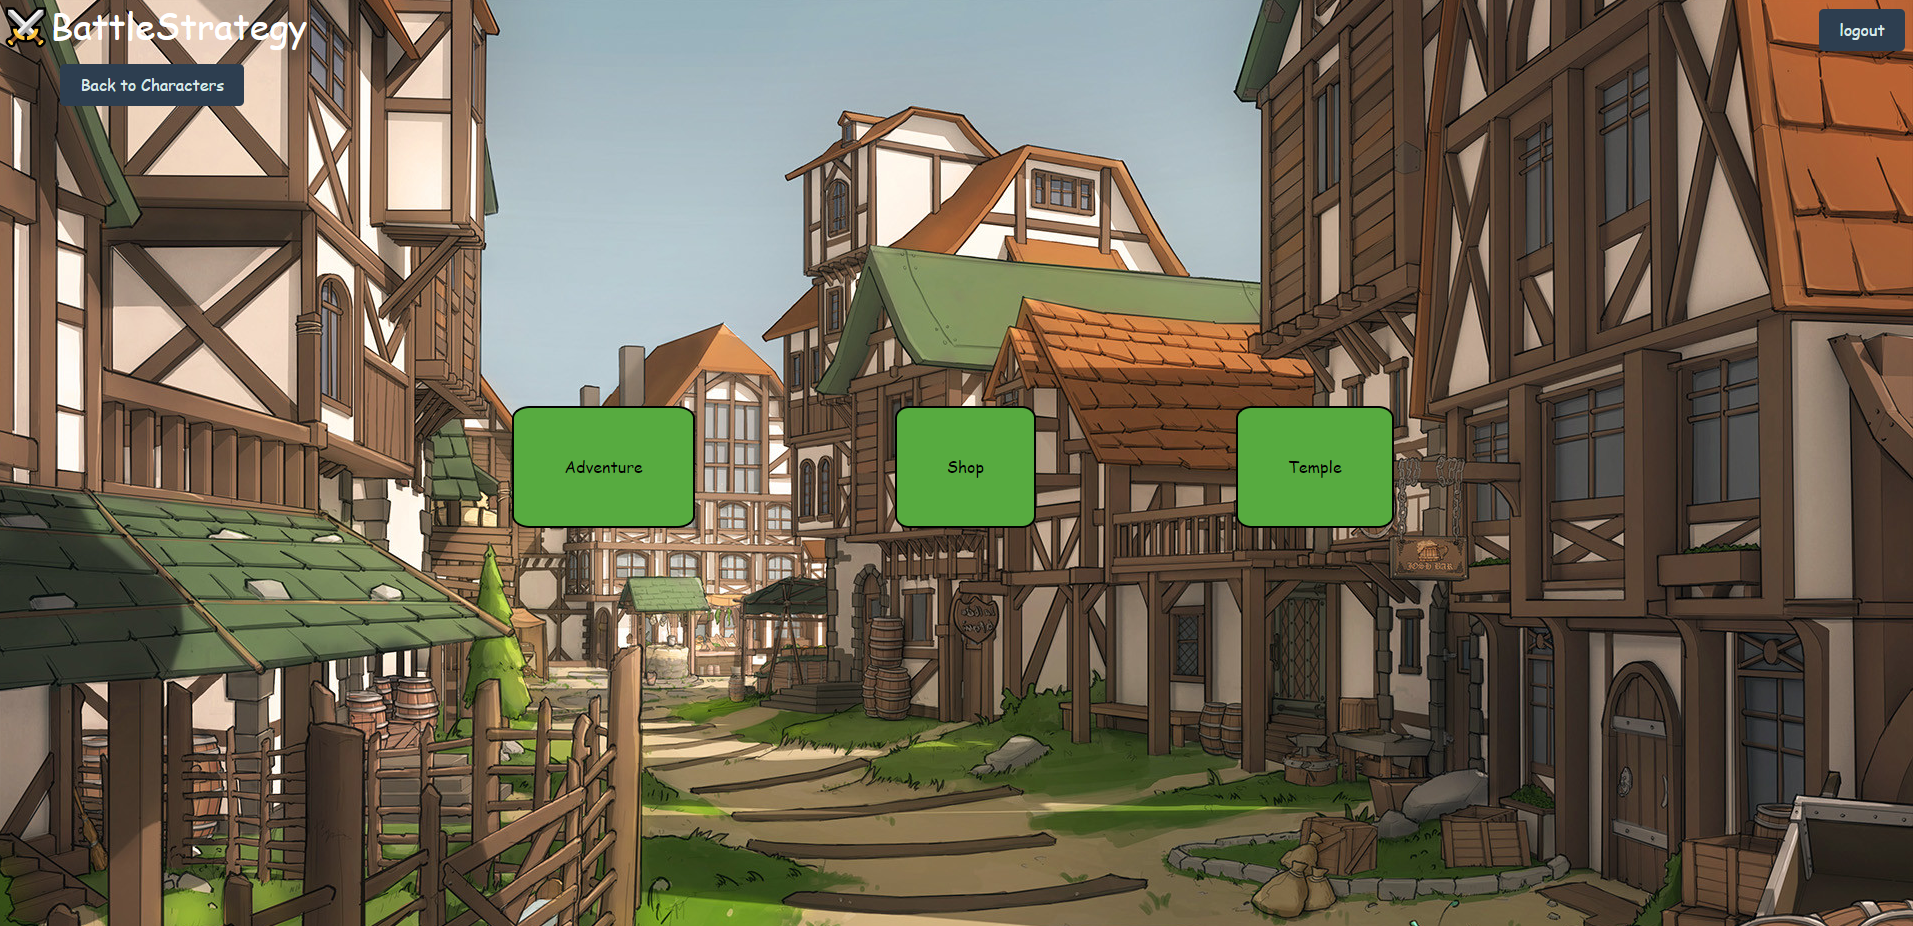
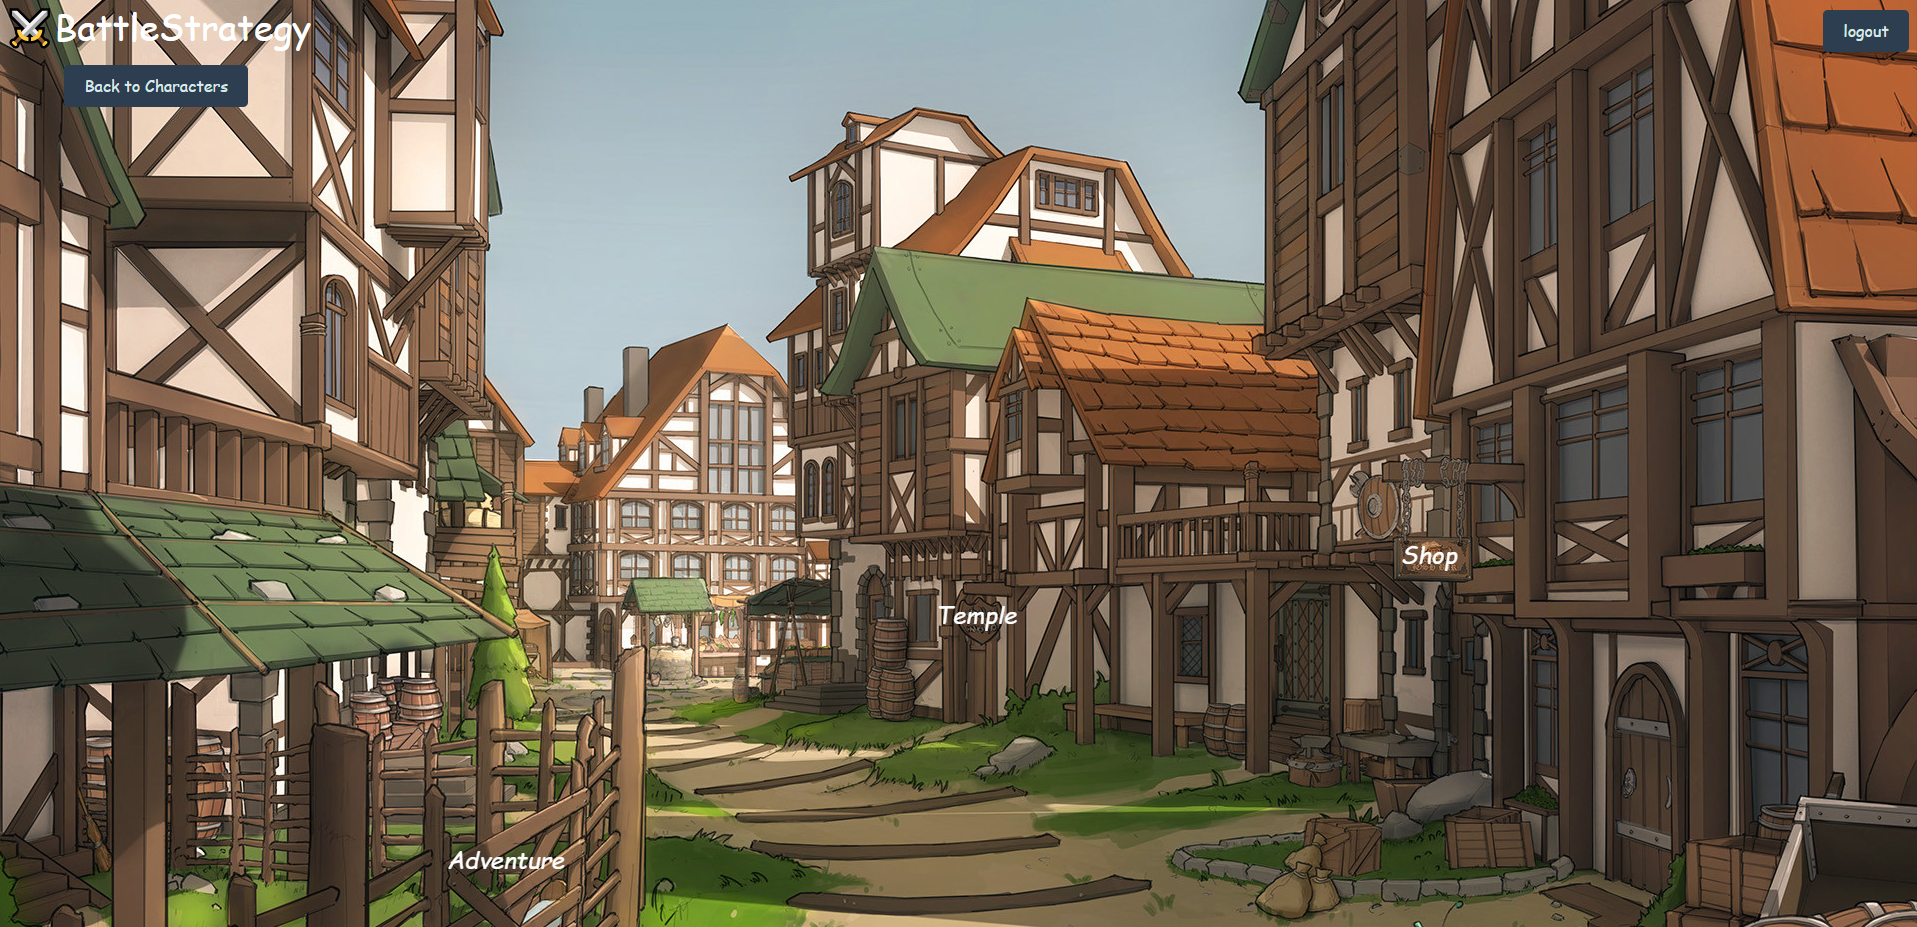
cleaned up css and finished homepage and readme imgs

diff --git a/public/css/style.css b/public/css/style.css
@@ -8,6 +8,11 @@
 body{
   overflow-x: hidden;
 }
+
+header {
+  width: 100%;
+}
+
 .modal {
   position: fixed;
   left: 0;
@@ -146,4 +151,62 @@ body{
 .file-upload-container:hover {
   cursor: pointer;
   background: #3949AB;
+}
+
+
+.btn-container {
+  background-color: transparent;
+  color: white;
+  font-family: 'Dancing Script', cursive;
+  font-family: 'Oswald', sans-serif;
+  font-family: 'Press Start 2P', cursive;
+  font-size: x-large;
+  transition: 0.4s;
+  font-style: italic;
+
+}
+
+.shop:hover,
+.adventure:hover,
+.temple:hover {
+  background-color: transparent;
+  color: rgb(6, 199, 6);
+}
+
+
+.shop {
+  position: fixed;
+  right:  460px;
+  bottom: 360px;
+}
+
+.adventure {
+  position: fixed;
+  left: 450px;
+  bottom: 55px;
+
+}
+
+.temple  {
+  position: fixed;
+  right: 900px;
+  bottom: 300px;
+}
+
+.loginContainer {
+  text-align: center;
+}
+
+#email-login {
+  display: block;
+  /* text-align: center; */
+  margin-right: auto;
+  margin-left: auto;
+}
+
+#password-login {
+  display: block;
+  /* text-align: center; */
+  margin-right: auto;
+  margin-left: auto;
 }
